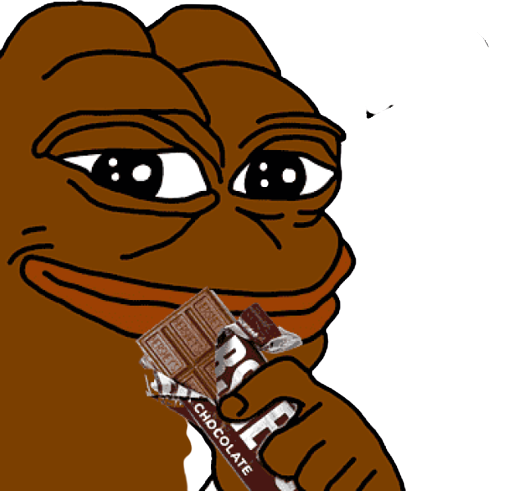
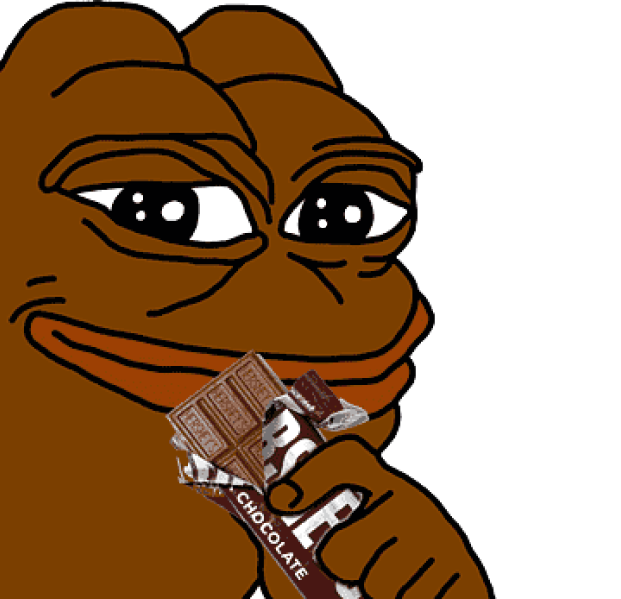
:hammer:Refact: find address funtion UI #3

diff --git a/static/js/user_detail_page.js b/static/js/user_detail_page.js
@@ -588,7 +588,7 @@ export function readURL(input) {
         };
         reader.readAsDataURL(input.files[0]);
     } else {
-        document.getElementById('profileView').src = "/static/images/image_199.png";
+        document.getElementById('profileView').src = "/static/images/pepe_choco.png";
     }
 }
 
@@ -663,7 +663,11 @@ export async function addressSearchAPI() {
             // iframe을 넣은 element를 안보이게 한다.
             // (autoClose:false 기능을 이용한다면, 아래 코드를 제거해야 화면에서 사라지지 않는다.)
             element_wrap.style.display = 'none';
+            document.getElementById('postcode').readOnly = true;
+            document.getElementById('address').readOnly = true;
 
+
+            window.scrollTo(0, 0);
             // 우편번호 찾기 화면이 보이기 이전으로 scroll 위치를 되돌린다.
             document.body.scrollTop = currentScroll;
         },
@@ -695,6 +699,8 @@ async function getDeliveryData(delivery_data) {
 
     document.getElementById("addressSubmitButton").style.display = "none"
     document.getElementById("addressLoad").style.display = "none"
+    document.getElementById("postcode").readOnly = false
+    document.getElementById("address").readOnly = false
     document.getElementById("dropdownContent").style.display = "none"
 
     // 메시지창 초기화
@@ -710,7 +716,8 @@ export async function changeAddressView() {
     document.getElementById("address").value = ''
     document.getElementById("detailAddress").value = ''
     document.getElementById("delivery_id").value = ''
-
+    document.getElementById("postcode").readOnly = false
+    document.getElementById("address").readOnly = false
     //  버튼 View 변경
     document.getElementById("addressLoad").style.display = "block"
     document.getElementById("addressSubmitButton").style.display = "block"
@@ -750,7 +757,7 @@ async function DeliveryInformation(response_json) {
 async function getUserDetailInformation(response_json) {
     // 프로필 정보 기입
     if (response_json.profile_image == null) {
-        document.getElementById('profileView').src = "/static/images/image_199.png";
+        document.getElementById('profileView').src = "/static/images/pepe_choco.png";
     } else {
         document.getElementById('profileView').setAttribute("src", response_json.profile_image)
     }

diff --git a/user_detail_page.html b/user_detail_page.html
@@ -207,6 +207,11 @@
                                 data-bs-toggle="tooltip" data-bs-html="true" data-bs-placement="top"
                                 data-bs-custom-class="custom-tooltip" data-bs-title="우편 번호를 입력해 주세요.">
                             <input class="address-input-item" type="button" id="Postcode" value="우편번호 찾기"><br>
+                            <div id="wrap"
+                                style="display:none;border:1px solid;width:500px;height:300px;margin:5px 0;position:relative">
+                                <img src="//t1.daumcdn.net/postcode/resource/images/close.png" id="btnFoldWrap"
+                                    style="cursor:pointer;position:absolute;right:0px;top:-1px;z-index:1" alt="접기 버튼">
+                            </div>
                             <input class="address-input-item" type="text" id="address" placeholder="주소"
                                 data-bs-toggle="tooltip" data-bs-html="true" data-bs-placement="top"
                                 data-bs-custom-class="custom-tooltip" data-bs-title="주소 정보를 입력해 주세요."><br>
@@ -217,11 +222,7 @@
                             <input class="address-input-item" type="text" id="recipient" placeholder="수령인"
                                 data-bs-toggle="tooltip" data-bs-html="true" data-bs-placement="top"
                                 data-bs-custom-class="custom-tooltip" data-bs-title="수령인의 이름을 적어 주세요.">
-                            <div id="wrap"
-                                style="display:none;border:1px solid;width:500px;height:300px;margin:5px 0;position:relative">
-                                <img src="//t1.daumcdn.net/postcode/resource/images/close.png" id="btnFoldWrap"
-                                    style="cursor:pointer;position:absolute;right:0px;top:-1px;z-index:1" alt="접기 버튼">
-                            </div>
+
                         </div>
                         <button type="button" id="addressSubmitButton" data-bs-toggle="tooltip" data-bs-html="true"
                             data-bs-placement="top" data-bs-custom-class="custom-tooltip"
